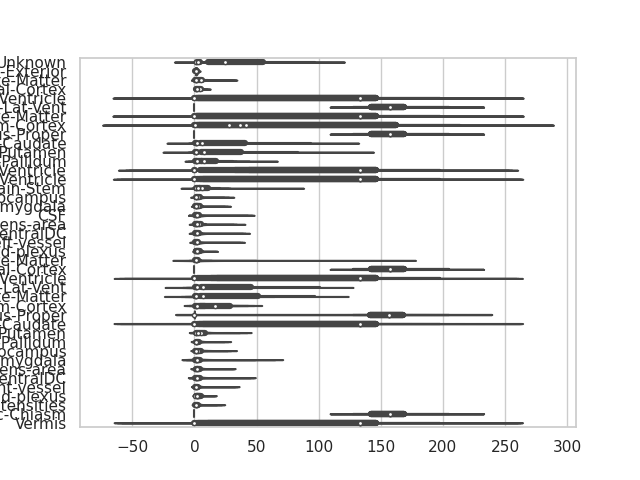
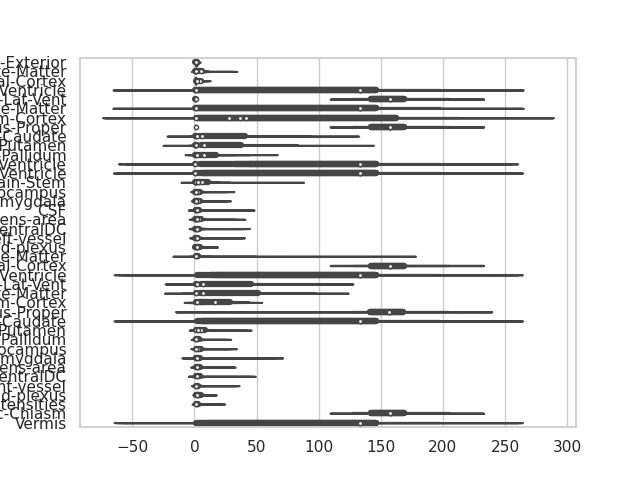
Remove columns with zeros

Changed region(s): [[0.1562, 0.125, 0.875, 0.9062], [0.0, 0.0938, 0.125, 0.875], [0.5312, 0.8438, 0.75, 0.875]]

diff --git a/SynthSeg/dcan/paper/create_plots.py b/SynthSeg/dcan/paper/create_plots.py
@@ -10,6 +10,14 @@ def create_violin_plots(results_dir, measures):
     for measure in measures:
         data_file_path = os.path.join(results_dir, f'{measure}.csv')
         df = pd.read_csv(data_file_path)
+        df.drop('Unknown', axis=1, inplace=True)
+        # Remove columns with zeros
+        df = df.loc[:, (df != 0).all(axis=0)]
         sns.set(style='whitegrid')
         sns.violinplot(data=df, orient='h')
         plt.savefig(f'../../../img/paper/{measure}.png')
+
+if __name__ == "__main__":
[1 lines of base64/hex data omitted]
+    msrs = ['dice', 'hausdorff', 'hausdorff_95', 'hausdorff_99', 'mean_distance']
+    create_violin_plots(results_folder, msrs)
